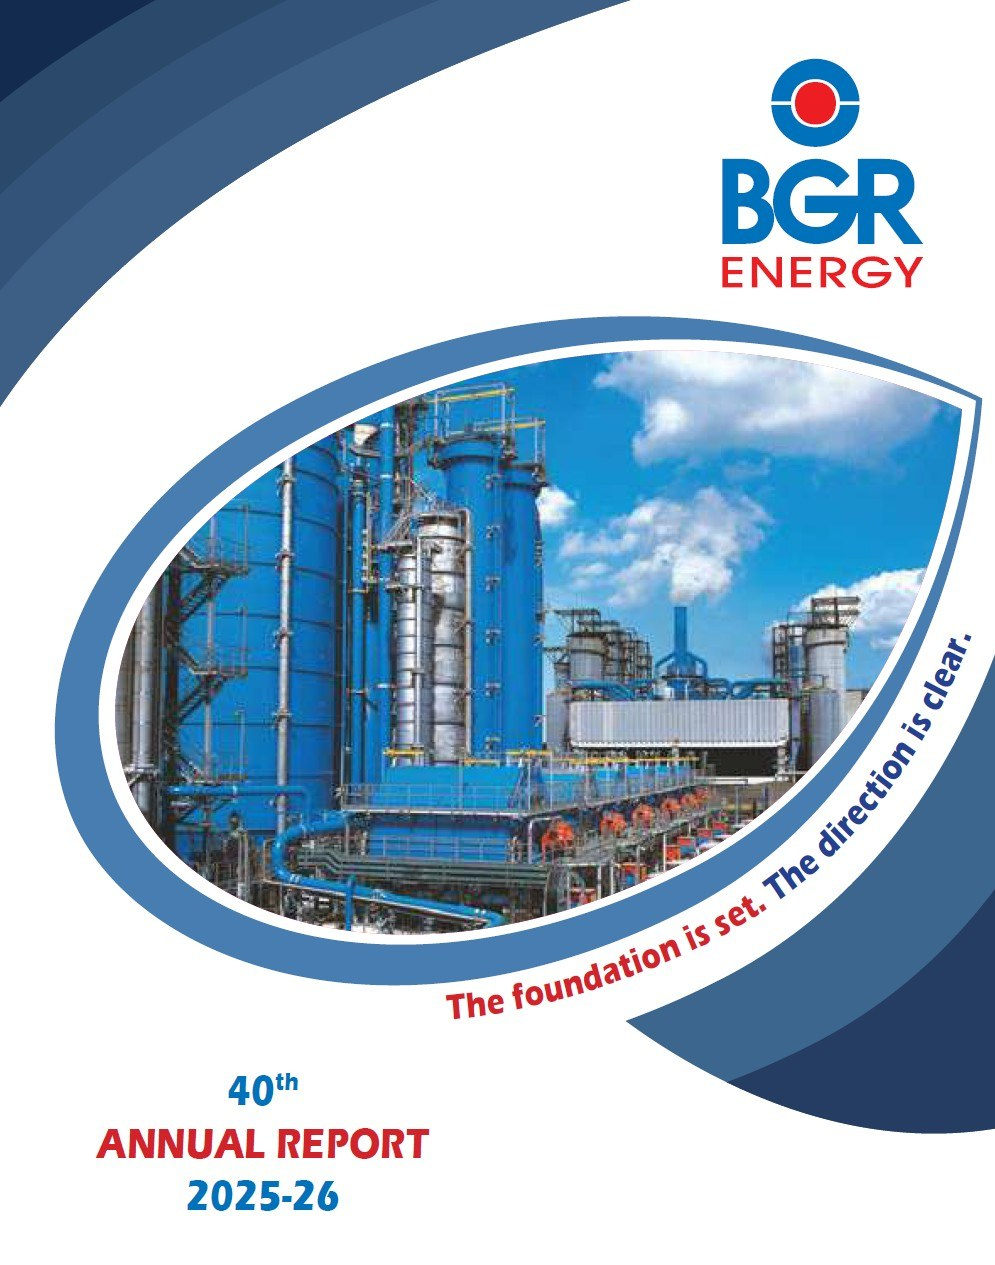
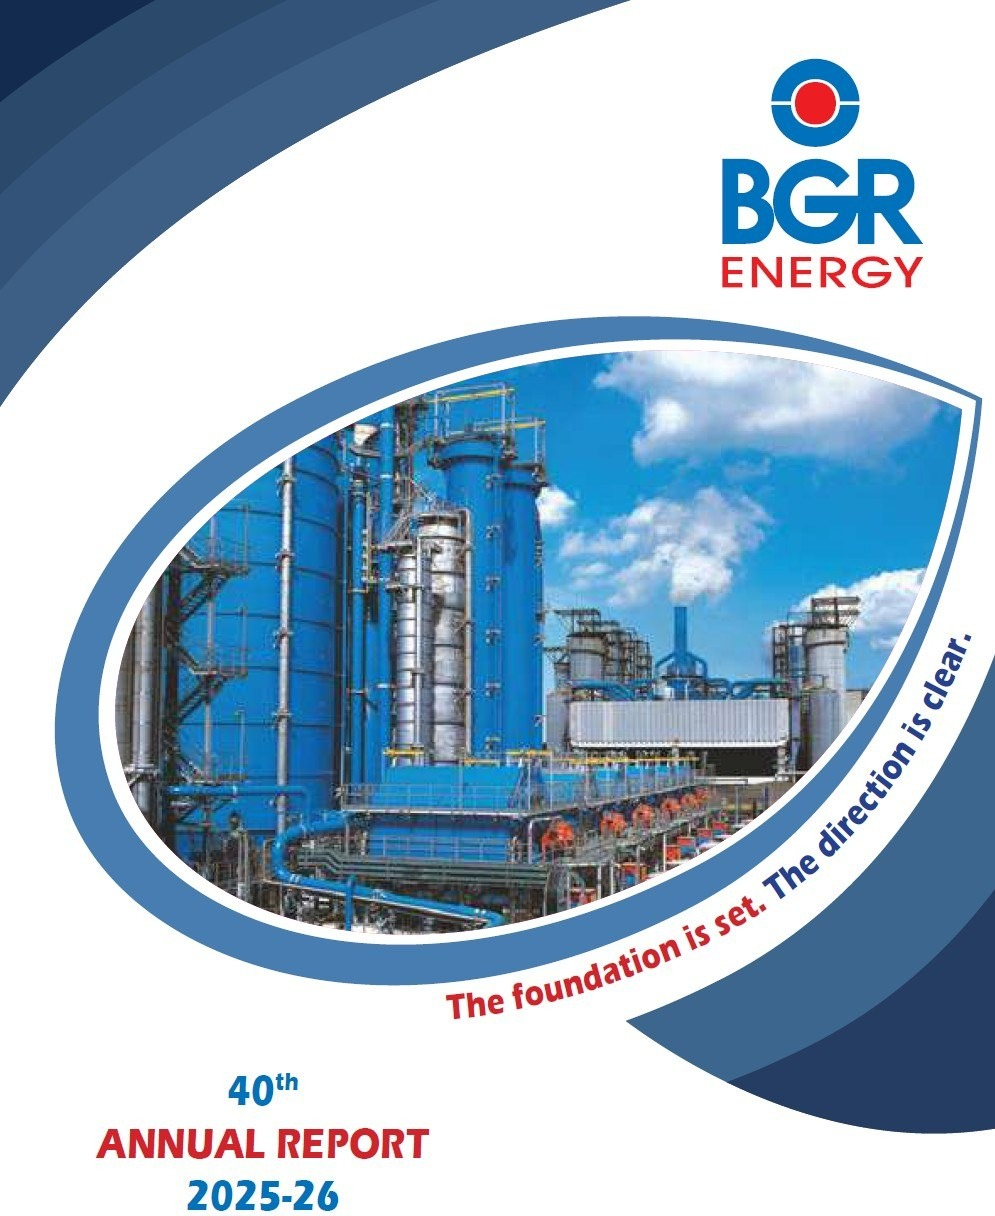
Homepage: vertical annual report card, cover trimmed of white strip

diff --git a/site/bgr-site/BgrSite.dc.html b/site/bgr-site/BgrSite.dc.html
@@ -11,7 +11,7 @@
 <div style="position:relative;font-family:'Inter',sans-serif;color:#16295B;background:#fff;overflow-x:clip">
 <dc-import name="SiteHeader" over-hero="{{ false }}" hint-size="100%,0px"></dc-import>
 <section id="top" data-screen-label="01 Hero" style="position:relative">
-<div style="margin:94px 10px 10px;border-radius:10px;overflow:hidden;position:relative;background:#0C1834;min-height:calc(100vh - 104px);display:flex;flex-direction:column;justify-content:flex-end"><img src="assets/home/hero.jpg" alt="BGR-executed gas turbine power station at dusk, reflected in water" loading="eager" fetchpriority="high" style="position:absolute;inset:0;width:100%;height:100%;object-fit:cover;display:block;object-position:center 35%"><div style="position:absolute;inset:0;background:linear-gradient(180deg,rgba(12,24,52,.05) 0%,rgba(12,24,52,.18) 45%,rgba(9,17,38,.72) 100%);pointer-events:none"></div><div style="position:relative;display:flex;flex-wrap:wrap;align-items:flex-end;justify-content:space-between;gap:40px;padding:clamp(28px,5vh,60px) clamp(24px,4vw,56px)"><div><h1 style="font-family:'Manrope',sans-serif;font-weight:800;letter-spacing:-.03em;line-height:1.22;color:#fff;font-size:clamp(34px,4.8vw,68px);margin:0">Engineering Efficiency.<br>Enabling Performance.</h1><div style="display:flex;gap:14px;flex-wrap:wrap;margin-top:26px"><a href="Investors.dc.html" style="display:inline-flex;align-items:center;justify-content:center;padding:14px 30px;border-radius:100px;font-family:'Manrope',sans-serif;font-size:13px;font-weight:600;letter-spacing:.01em;cursor:pointer;transition:background 200ms,color 200ms,border-color 200ms;background:#E41D26;color:#fff;border:1px solid #E41D26" style-hover="background:#fff;color:#16295B;border-color:#fff">Investor Relations</a><a href="OurStory.dc.html" style="display:inline-flex;align-items:center;justify-content:center;padding:14px 30px;border-radius:100px;font-family:'Manrope',sans-serif;font-size:13px;font-weight:600;letter-spacing:.01em;cursor:pointer;transition:background 200ms,color 200ms,border-color 200ms;background:transparent;color:#fff;border:1px solid rgba(255,255,255,.7)" style-hover="background:#fff;color:#16295B;border-color:#fff">Our Story</a></div></div><x-import component-from-global-scope="BGRDesignSystem.HeroCard" href="Investors.dc.html" eyebrow="Latest news" label="Annual Report 2025-26" image="{{ heroCardImage }}" hint-size="280px,240px"></x-import></div></div>
+<div style="margin:94px 10px 10px;border-radius:10px;overflow:hidden;position:relative;background:#0C1834;min-height:calc(100vh - 104px);display:flex;flex-direction:column;justify-content:flex-end"><img src="assets/home/hero.jpg" alt="BGR-executed gas turbine power station at dusk, reflected in water" loading="eager" fetchpriority="high" style="position:absolute;inset:0;width:100%;height:100%;object-fit:cover;display:block;object-position:center 35%"><div style="position:absolute;inset:0;background:linear-gradient(180deg,rgba(12,24,52,.05) 0%,rgba(12,24,52,.18) 45%,rgba(9,17,38,.72) 100%);pointer-events:none"></div><div style="position:relative;display:flex;flex-wrap:wrap;align-items:flex-end;justify-content:space-between;gap:40px;padding:clamp(28px,5vh,60px) clamp(24px,4vw,56px)"><div><h1 style="font-family:'Manrope',sans-serif;font-weight:800;letter-spacing:-.03em;line-height:1.22;color:#fff;font-size:clamp(34px,4.8vw,68px);margin:0">Engineering Efficiency.<br>Enabling Performance.</h1><div style="display:flex;gap:14px;flex-wrap:wrap;margin-top:26px"><a href="Investors.dc.html" style="display:inline-flex;align-items:center;justify-content:center;padding:14px 30px;border-radius:100px;font-family:'Manrope',sans-serif;font-size:13px;font-weight:600;letter-spacing:.01em;cursor:pointer;transition:background 200ms,color 200ms,border-color 200ms;background:#E41D26;color:#fff;border:1px solid #E41D26" style-hover="background:#fff;color:#16295B;border-color:#fff">Investor Relations</a><a href="OurStory.dc.html" style="display:inline-flex;align-items:center;justify-content:center;padding:14px 30px;border-radius:100px;font-family:'Manrope',sans-serif;font-size:13px;font-weight:600;letter-spacing:.01em;cursor:pointer;transition:background 200ms,color 200ms,border-color 200ms;background:transparent;color:#fff;border:1px solid rgba(255,255,255,.7)" style-hover="background:#fff;color:#16295B;border-color:#fff">Our Story</a></div></div><a href="Investors.dc.html" style="display:flex;flex-direction:column;gap:10px;width:clamp(176px,27vh,240px);flex:none;padding:8px;border-radius:12px;background:rgba(0,0,0,.18);backdrop-filter:blur(18px);-webkit-backdrop-filter:blur(18px);text-decoration:none;transition:background 200ms" style-hover="background:rgba(0,0,0,.3)"><div style="aspect-ratio:995/1216;border-radius:6px;overflow:hidden;background:rgba(255,255,255,.15)"><img src="assets/investors/annual-report-fy2025-26-cover.jpg" alt="Cover of the BGR Energy Systems 40th Annual Report, 2025-26" style="width:100%;height:100%;object-fit:cover;display:block"></div><div style="display:flex;flex-direction:column;gap:8px;padding:2px 6px 6px"><div style="font-family:'Manrope',sans-serif;font-weight:700;font-size:10px;letter-spacing:.18em;text-transform:uppercase;color:#E41D26">Latest news</div><div style="display:flex;align-items:flex-end;justify-content:space-between;gap:10px"><div style="font-family:'Manrope',sans-serif;font-weight:700;font-size:15px;color:#fff;line-height:1.25">Annual Report 2025-26</div><span aria-hidden="true" style="font-size:16px;color:#fff">↗</span></div></div></a></div></div>
 </section>
 <section data-screen-label="02 Purpose and promise" ref="{{ purposeRef }}" style="position:relative;height:620vh;background:#fff">
 <div ref="{{ stageRef }}" style="position:sticky;top:0;height:100vh;overflow:hidden;background:#fff">
